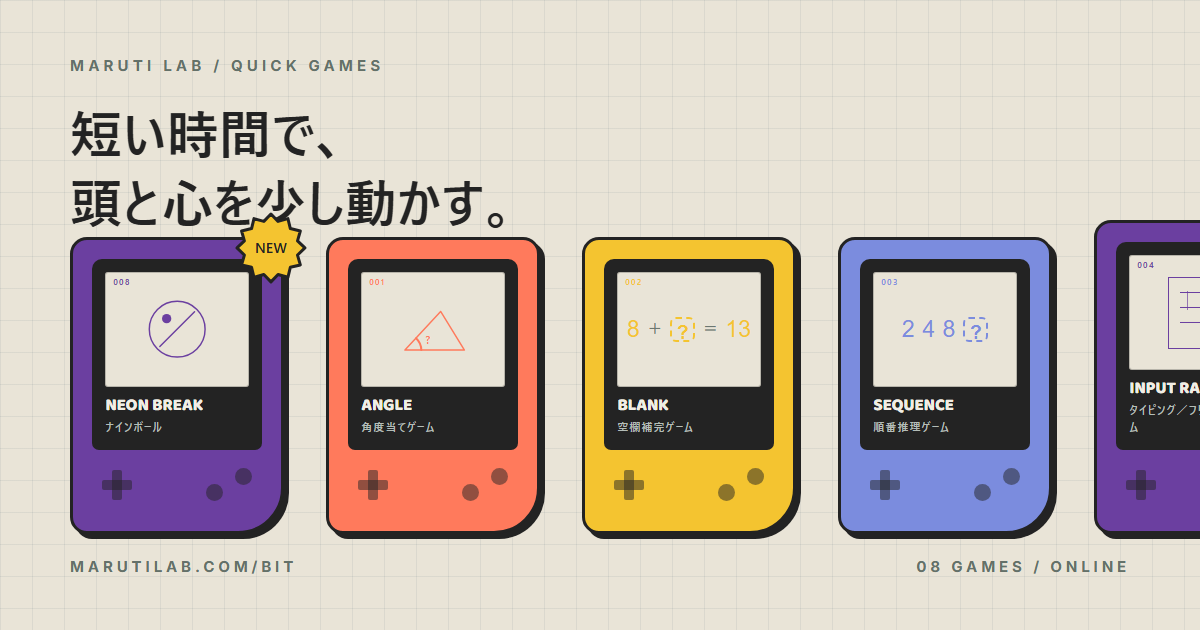
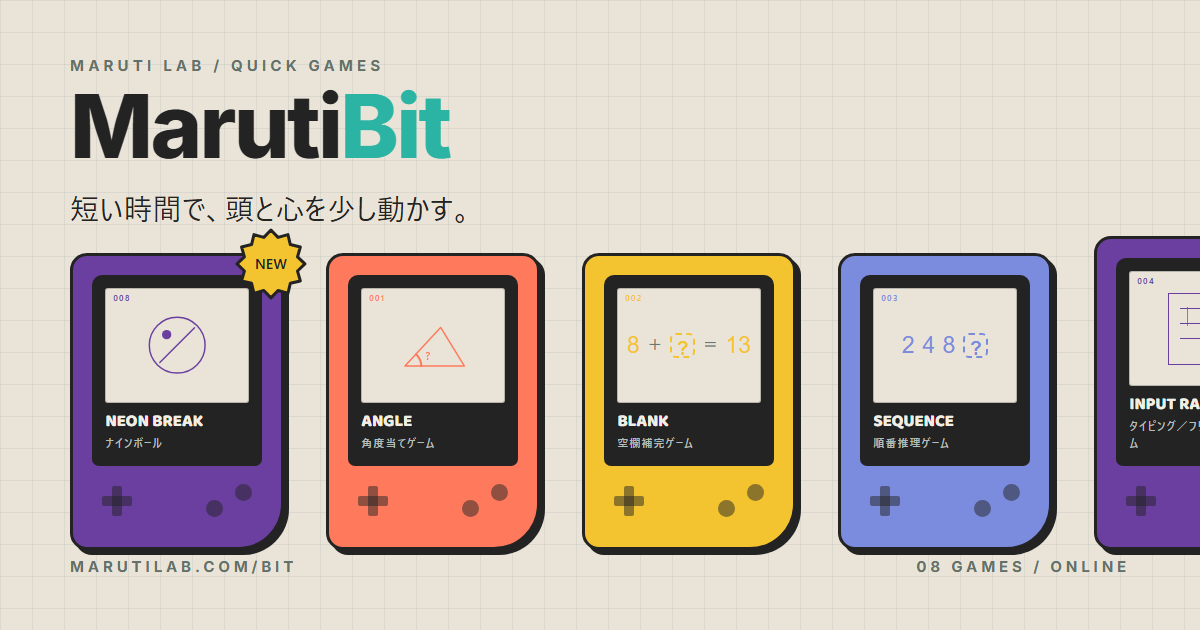
Put the wordmark on the /bit card, and the seal clear of the type
A card for MarutiBit that never writes MarutiBit is not a card for it. The
wordmark leads now, the way the home page writes it, with the line under it
and the machines under that - the hero's own order.

The seal on the leading machine was also reaching up into the headline. The
type block sits higher and the shelf lower, so nothing overlaps.

diff --git a/app/og-preview/ogPreview.module.css b/app/og-preview/ogPreview.module.css
@@ -254,17 +254,27 @@
 /* The /bit card: the page's own words, and the machines the page is about,
    running off the right edge the way they do on the shelf. */
 .index { padding: 58px 70px 56px; }
-.indexTitle {
-  margin: 26px 0 0;
+.indexBrand {
+  display: flex;
+  align-items: baseline;
+  margin: 14px 0 0;
   color: #232323;
-  font: 700 52px/1.32 "Yu Gothic UI", "Hiragino Kaku Gothic ProN", sans-serif;
+  font: 800 88px/0.9 Inter, sans-serif;
+  letter-spacing: -0.03em;
+  font-feature-settings: "cv11" 1;
+}
+.indexBrand b { color: #2BB3A3; font-weight: 800; }
+.indexTitle {
+  margin: 24px 0 0;
+  color: #232323;
+  font: 400 29px/1.3 "Yu Gothic UI", "Hiragino Kaku Gothic ProN", sans-serif;
   letter-spacing: 0.01em;
 }
 .indexShelf {
   position: absolute;
   left: 70px;
   right: 0;
-  bottom: 96px;
+  bottom: 80px;
   display: flex;
   gap: 42px;
   align-items: flex-end;

diff --git a/app/og-preview/page.tsx b/app/og-preview/page.tsx
@@ -55,7 +55,10 @@ function IndexCard() {
   return (
     <div className={`${styles.card} ${styles.wide} ${styles.index}`} id="index">
       <p className={styles.serial}>MARUTI LAB / QUICK GAMES</p>
-      <h1 className={styles.indexTitle}>短い時間で、<br />頭と心を少し動かす。</h1>
+      {/* The wordmark itself, the way the home page writes it. A card for
+          MarutiBit that never says MarutiBit is no card at all. */}
+      <h1 className={styles.indexBrand}><span>Maruti</span><b>Bit</b></h1>
+      <p className={styles.indexTitle}>短い時間で、頭と心を少し動かす。</p>
       <div className={styles.indexShelf}>
         {shelf.map((game) => <GameUnit game={game} key={game.id} className={styles.indexUnit} />)}
       </div>
